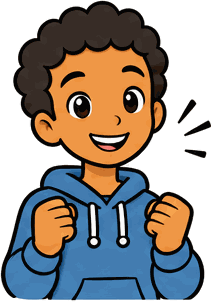
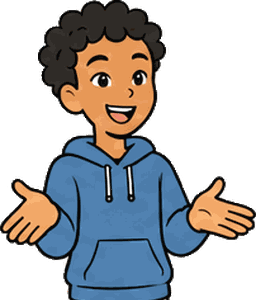
Nieuwe Fien en Jef uit het blad met zes houdingen
Op vraag van Nick al voor de Chromebook-test van 30 november. Alleen de
prenten in src/beelden zijn vervangen; de schermindeling blijft. Het
knipscript zoekt de figuren zelf, zet ze op een gelijke voetlijn en houdt
de verhouding tussen Fien en Jef. Waarom: docs/beslissingen.md, 12o.

Claude-Session: https://claude.ai/code/session_01JDVV86z5dGgt7DPYnbiktq

diff --git a/src/weergave/figuren.ts b/src/weergave/figuren.ts
@@ -1,6 +1,7 @@
-// Fien en Jef, uitgeknipt uit het modelblad (docs/beelden/fien-en-jef-modelblad.png)
-// met scripts/knip-figuren.py. Een nieuwe uitdrukking toevoegen: zet een zone in
-// dat script, voer het uit, en voeg de naam toe aan Uitdrukking.
+// Fien en Jef, uitgeknipt uit het blad met zes houdingen
+// (docs/beelden/fien-en-jef-zes-houdingen.png) met scripts/knip-figuren.py.
+// Een nieuwe uitdrukking toevoegen: zet ze op het blad, voeg de naam toe in dat
+// script, voer het uit, en voeg de naam toe aan Uitdrukking.
 //
 // Fien en Jef staan altijd stil (docs/stijlgids.md, deel 1). Ze veranderen
 // alleen van houding bij de start (zwaai) en op het einde (duim of aanmoedigend).

diff --git a/scripts/knip-figuren.py b/scripts/knip-figuren.py
@@ -1,20 +1,26 @@
-"""Knipt Fien en Jef uit het modelblad en maakt de achtergrond doorzichtig.
+"""Knipt Fien en Jef uit het blad met zes houdingen en maakt de achtergrond doorzichtig.
 
 Gebruik (vanuit de hoofdmap van het project, Python 3 met Pillow, numpy en scipy):
     python3 scripts/knip-figuren.py
 
-Invoer:  docs/beelden/fien-en-jef-modelblad.png (klare lijn, 1536 x 1024)
+Invoer:  docs/beelden/fien-en-jef-zes-houdingen.png (klare lijn, 1536 x 1024)
 Uitvoer: src/beelden/<naam>.png
 
-Het modelblad toont twee rijen van vijf houdingen: boven Fien, onder Jef.
-De vakken hieronder zijn ruwe zones (links, boven, rechts, onder). Binnen elke zone:
-- de achtergrond die aan de rand raakt, wordt doorzichtig;
-- ingesloten stukken achtergrond groter dan 350 pixels ook (tussen arm en lijf);
-  kleinere stukken blijven, zo blijft het wit van ogen en tanden;
-- losse spikkels kleiner dan 40 pixels verdwijnen;
-- de figuur wordt precies afgebakend en verkleind tot hoogstens 360 hoog.
+Het blad toont twee rijen van zes houdingen: boven Fien, onder Jef. Van links
+naar rechts: zwaai, duim, blij, trots, aanmoedigend, nadenkend.
 
-"trots" is dezelfde prent als "duim": het modelblad heeft geen aparte houding.
+Wat het script doet:
+- Het zoekt de figuren zelf: de kolommen zonder tekening zijn de grenzen.
+- De achtergrond wordt doorzichtig, ook de stukjes die ingesloten zijn (tussen
+  paardenstaart en nek). Het wit van schoenen, ogen en tanden blijft: dat is
+  koeler van kleur dan de roomwitte achtergrond.
+- Elke figuur krijgt dezelfde lichaamslengte als de andere houdingen van hetzelfde
+  kind, en Fien en Jef houden hun verhouding van het blad (Jef is iets groter).
+  Alle prenten van een soort hebben dezelfde hoogte, met de voeten op dezelfde
+  lijn. Zo verspringt er niets als een houding wisselt.
+- "zwaai" wordt de hele figuur (startscherm, strook van een spel). De andere
+  houdingen worden op dezelfde hoogte boven de voeten afgesneden, ter hoogte
+  van de zak van de trui: een gezichtje met bovenlijf naast de oefening.
 """
 
 from pathlib import Path
@@ -23,63 +29,128 @@ import numpy as np
 from PIL import Image
 from scipy import ndimage as ndi
 
-BRON = Path("docs/beelden/fien-en-jef-modelblad.png")
+BRON = Path("docs/beelden/fien-en-jef-zes-houdingen.png")
 DOEL = Path("src/beelden")
-MAX_HOOGTE = 360
-ACHTERGROND = np.array([252, 248, 242])
-SPELING = 11
 
-ZONES = {
-    "fien-zwaai": (445, 15, 668, 512),
-    "fien-blij": (668, 15, 866, 512),
-    "fien-duim": (866, 15, 1070, 512),
-    "fien-nadenkend": (1070, 15, 1276, 512),
-    "fien-aanmoedigend": (1276, 15, 1510, 512),
-    "jef-zwaai": (445, 512, 672, 1020),
-    "jef-blij": (672, 512, 872, 1020),
-    "jef-duim": (872, 512, 1084, 1020),
-    "jef-nadenkend": (1084, 512, 1284, 1020),
-    "jef-aanmoedigend": (1284, 512, 1520, 1020),
-}
+HOUDINGEN = ["zwaai", "duim", "blij", "trots", "aanmoedigend", "nadenkend"]
+RIJEN = {"fien": (0, 505), "jef": (505, 1024)}
+
+ACHTERGROND = np.array([252, 247, 243])
+SPELING = 12
+# De achtergrond is roomwit (rood duidelijk hoger dan blauw); schoenen, ogen en
+# tanden zijn koel wit. Dit verschil houdt ze uit elkaar.
+MIN_WARMTE = 5
+MIN_GAT = 40  # ingesloten achtergrond kleiner dan dit blijft staan (ruis)
+SCHOENZONE = 0.15  # onderste deel van de figuur: daar blijft ingesloten roomwit staan (schaduw in de schoenen)
+MIN_STUK = 40  # losse spikkels kleiner dan dit verdwijnen
+
+HOOGTE_HEEL = 360  # hele figuur: hoogte van de prent
+HOOGTE_LIJF = 600  # maat waarop de bovenlijven berekend worden (scherper)
+SNEDE = 0.50  # bovenlijf: dit deel van de prent, van boven gerekend
 
 
-def knip(blad, zone):
-    x0, y0, x1, y1 = zone
-    stuk = blad[y0:y1, x0:x1]
-    achtergrond = np.abs(stuk - ACHTERGROND).max(axis=2) <= SPELING
-    labels, aantal = ndi.label(achtergrond)
-    rand = set(labels[0]) | set(labels[-1]) | set(labels[:, 0]) | set(labels[:, -1])
-    rand.discard(0)
-    groottes = ndi.sum(achtergrond, labels, range(1, aantal + 1))
-    weg = np.isin(labels, list(rand))
-    for nr, grootte in enumerate(groottes, 1):
-        if nr not in rand and grootte > 350:
-            weg |= labels == nr
-    zichtbaar = ~weg
-    labels2, aantal2 = ndi.label(zichtbaar)
-    groottes2 = ndi.sum(zichtbaar, labels2, range(1, aantal2 + 1))
-    for nr, grootte in enumerate(groottes2, 1):
-        if grootte < 40:
-            zichtbaar[labels2 == nr] = False
-    ys, xs = np.where(zichtbaar)
-    kader = (xs.min(), ys.min(), xs.max() + 1, ys.max() + 1)
-    rgba = np.dstack([stuk, np.where(zichtbaar, 255, 0)]).astype("uint8")
-    prent = Image.fromarray(rgba).crop(kader)
-    if prent.height > MAX_HOOGTE:
-        prent = prent.resize((round(prent.width * MAX_HOOGTE / prent.height), MAX_HOOGTE), Image.LANCZOS)
+def masker_achtergrond(stuk):
+    dichtbij = np.abs(stuk - ACHTERGROND).max(axis=2) <= SPELING
+    warm = (stuk[:, :, 0] - stuk[:, :, 2]) >= MIN_WARMTE
+    return dichtbij & warm
+
+
+def figuren_in_rij(blad, y0, y1):
+    """Geeft per figuur het uitgeknipte stuk (RGBA, strak afgebakend)."""
+    rij = blad[y0:y1]
+    achtergrond = masker_achtergrond(rij)
+    kolommen = (~achtergrond).sum(axis=0)
+    # Kolommen met minder dan 2 afwijkende pixels tellen als leeg (ruis).
+    bezet = kolommen >= 2
+    zones, start = [], None
+    for x, vol in enumerate(bezet):
+        if vol and start is None:
+            start = x
+        if not vol and start is not None:
+            if x - start > 60:
+                zones.append((start, x))
+            start = None
+    if start is not None:
+        zones.append((start, len(bezet)))
+    if len(zones) != len(HOUDINGEN):
+        raise SystemExit(f"Verwachtte {len(HOUDINGEN)} figuren, vond {len(zones)}: {zones}")
+
+    uit = []
+    for x0, x1 in zones:
+        marge = 6
+        stuk = rij[:, max(0, x0 - marge) : x1 + marge]
+        bg = masker_achtergrond(stuk)
+        labels, aantal = ndi.label(bg)
+        rand = set(labels[0]) | set(labels[-1]) | set(labels[:, 0]) | set(labels[:, -1])
+        rand.discard(0)
+        groottes = ndi.sum(bg, labels, range(1, aantal + 1))
+        weg = np.isin(labels, list(rand))
+        rijen_met_figuur = np.where((~bg).sum(axis=1) >= 2)[0]
+        boven, onder = rijen_met_figuur.min(), rijen_met_figuur.max()
+        schoenlijn = onder - SCHOENZONE * (onder - boven)
+        middens = ndi.center_of_mass(bg, labels, range(1, aantal + 1))
+        for nr, grootte in enumerate(groottes, 1):
+            if nr not in rand and grootte >= MIN_GAT and middens[nr - 1][0] < schoenlijn:
+                weg |= labels == nr
+        zichtbaar = ~weg
+        labels2, aantal2 = ndi.label(zichtbaar)
+        groottes2 = ndi.sum(zichtbaar, labels2, range(1, aantal2 + 1))
+        for nr, grootte in enumerate(groottes2, 1):
+            if grootte < MIN_STUK:
+                zichtbaar[labels2 == nr] = False
+        # Het lichte randje tussen de achtergrond en de zwarte lijn weghalen,
+        # anders staat er een wit randje rond de figuur op een gekleurd vlak.
+        # Alleen lichte, grijzige pixels die aan het doorzichtige deel raken;
+        # de zwarte lijn en de gekleurde vlakken blijven.
+        licht = (stuk.min(axis=2) >= 120) & ((stuk.max(axis=2) - stuk.min(axis=2)) <= 45)
+        for _ in range(3):
+            buur_weg = ndi.binary_dilation(~zichtbaar, structure=np.ones((3, 3)))
+            zichtbaar &= ~(buur_weg & licht)
+        alfa = np.where(zichtbaar, 255, 0).astype("uint8")
+        ys, xs = np.where(zichtbaar)
+        kader = (xs.min(), ys.min(), xs.max() + 1, ys.max() + 1)
+        rgba = np.dstack([stuk.astype("uint8"), alfa])
+        uit.append(Image.fromarray(rgba).crop(kader))
+    return uit
+
+
+def op_doek(prent, lengte, doekhoogte):
+    """Schaalt de figuur naar de gevraagde lichaamslengte en zet ze met de
+    voeten onderaan op een doorzichtig doek met een vaste hoogte."""
+    breedte = round(prent.width * lengte / prent.height)
+    geschaald = prent.resize((breedte, lengte), Image.LANCZOS)
+    doek = Image.new("RGBA", (breedte, doekhoogte), (0, 0, 0, 0))
+    doek.paste(geschaald, (0, doekhoogte - lengte))
+    return doek
+
+
+def bewaar(prent, naam):
     # 256 kleuren volstaan voor vlakke prenten en maken de bestanden veel kleiner.
-    return prent.quantize(256, method=Image.Quantize.FASTOCTREE)
+    klein = prent.quantize(256, method=Image.Quantize.FASTOCTREE)
+    klein.save(DOEL / f"{naam}.png", optimize=True)
+    print(naam, klein.size)
 
 
 def main():
     blad = np.array(Image.open(BRON).convert("RGB")).astype(int)
     DOEL.mkdir(parents=True, exist_ok=True)
-    for naam, zone in ZONES.items():
-        prent = knip(blad, zone)
-        prent.save(DOEL / f"{naam}.png", optimize=True)
-        print(naam, prent.size)
-        if naam.endswith("-duim"):
-            prent.save(DOEL / f"{naam[:-5]}-trots.png", optimize=True)
+    stukken = {wie: figuren_in_rij(blad, *rij) for wie, rij in RIJEN.items()}
+    # De lichaamslengte per kind: de mediaan over de zes houdingen op het blad.
+    lengte = {wie: float(np.median([p.height for p in lijst])) for wie, lijst in stukken.items()}
+    grootste = max(lengte.values())
+
+    for wie, lijst in stukken.items():
+        verhouding = lengte[wie] / grootste
+        for houding, prent in zip(HOUDINGEN, lijst):
+            if houding == "zwaai":
+                bewaar(op_doek(prent, round(HOOGTE_HEEL * verhouding), HOOGTE_HEEL), f"{wie}-{houding}")
+            else:
+                doek = op_doek(prent, round(HOOGTE_LIJF * verhouding), HOOGTE_LIJF)
+                lijf = doek.crop((0, 0, doek.width, round(HOOGTE_LIJF * SNEDE)))
+                # Lege kolommen links en rechts weg (armen en benen onder de snede).
+                kader = lijf.getbbox()
+                lijf = lijf.crop((kader[0], 0, kader[2], lijf.height))
+                bewaar(lijf, f"{wie}-{houding}")
 
 
 if __name__ == "__main__":

diff --git a/docs/beslissingen.md b/docs/beslissingen.md
@@ -367,6 +367,21 @@ Nick testte op 28 november op een groot scherm, deels met een kind. Dit zijn de 
 - **Waarop steunt dit? Eigen keuze**, na het hardop proberen door Nick. Nog te toetsen bij een kind van 9 of 10 jaar en in de klastest.
 
 
+## 12o. Nieuwe Fien en Jef: het blad met zes houdingen (28 november 2026)
+
+- **Keuze:** de figuren in de app komen nu uit `docs/beelden/fien-en-jef-zes-houdingen.png`: de eerste stripstijl van ChatGPT, slanker en ouder. Alleen de prenten in `src/beelden` zijn vervangen; de indeling van de schermen is niet veranderd.
+- **Waarom nu:** Nick wil de nieuwe figuren al zien bij de test op een Chromebook (30 november). De rest van de opdracht `docs/opdrachten/2026-11-28-vormgeving-na-test.md` (rijen benoemen, rust en overzicht, schalen) blijft voor na die test. Punt 1 van die opdracht is hiermee gedaan.
+- **Waarom deze figuren:** Nick vond deze stijl mooier en beter passen bij kinderen van 9 tot 12 jaar (projectdocument 22).
+- **Hoe (`scripts/knip-figuren.py`):**
+  - het script zoekt de twaalf figuren zelf op het blad, aan de lege kolommen ertussen;
+  - de roomwitte achtergrond wordt doorzichtig, ook tussen paardenstaart en nek; het koele wit van schoenen, ogen en tanden blijft; het lichte randje rond de zwarte lijn gaat weg, zodat er geen wit randje staat op het gras van de strook;
+  - elke houding krijgt dezelfde lichaamslengte en dezelfde voetlijn, en Fien en Jef houden hun verhouding van het blad (Jef is iets groter). Zo verspringt er niets als een houding wisselt (K20);
+  - "zwaai" is de hele figuur; de vijf andere houdingen zijn afgesneden op de helft van de prent (ter hoogte van de zak van de trui), zoals de vorige figuren, omdat de zones naast de oefening daarvoor gemaakt zijn;
+  - "trots" is nu een eigen houding en geen kopie van "duim" meer.
+- **Wat opvalt:** de nieuwe figuren hebben een kleiner hoofd, dus de gezichten naast de oefening zijn kleiner dan vroeger. Groter tonen vraagt een andere indeling; dat hoort bij de opdracht voor na de Chromebook-test (Fien en Jef groot in het midden).
+- **Waarop steunt dit? Eigen keuze** (oordeel van Nick), te toetsen in de klastest: spreekt de stijl kinderen aan?
+
+
 ## 13. Privacy en veiligheid
 
 - Geen externe bronnen: geen CDN, geen analytics, geen Google Fonts.
